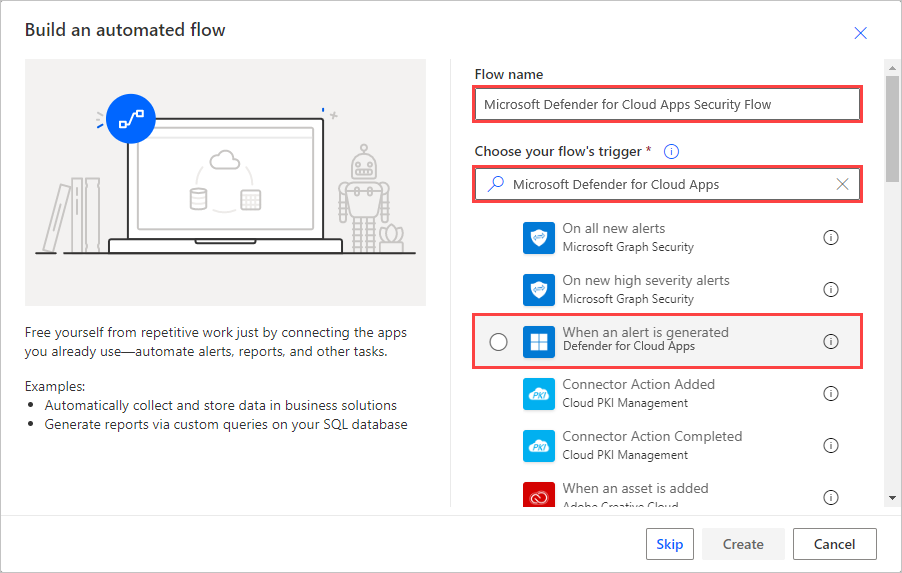
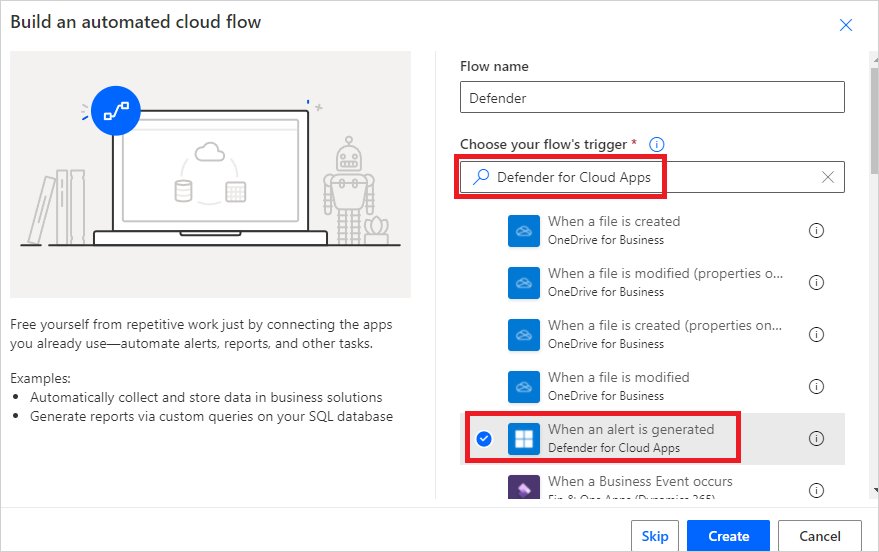
Rebrand Power Automate images

diff --git a/CloudAppSecurityDocs/tutorial-flow.md b/CloudAppSecurityDocs/tutorial-flow.md
@@ -56,7 +56,7 @@ If you don't have a Power Automate plan, [sign up for a free trial account](http
 
     ![Screenshot of the main Power Automate page, showing the selection of templates.](media/tutorial-flow-templates.png)
 
-1. Search for *Cloud App Security* and select **Run antivirus scan using Windows Defender upon a Defender for Cloud Apps alert**.
+1. Search for *Defender for Cloud Apps* and select **Run antivirus scan using Windows Defender on Defender for Cloud Apps alerts**.
 
     ![Screenshot of the templates Power Automate page, showing the search results.](media/tutorial-flow-templates-search.png)
 
@@ -103,7 +103,7 @@ If you don't have a Power Automate plan, [sign up for a free trial account](http
 
 Now every alert raised for this policy will initiate the flow to run the antivirus scan.
 
-You can use the steps in this tutorial to create a wide range of workflow-based actions to extend Defender for Cloud Apps remediation capabilities, including other Defender for Endpoint actions. To see a list of predefined Defender for Cloud Apps workflows, in Power Automate, [search for "Cloud App Security"](https://go.microsoft.com/fwlink/?linkid=2102574).
+You can use the steps in this tutorial to create a wide range of workflow-based actions to extend Defender for Cloud Apps remediation capabilities, including other Defender for Endpoint actions. To see a list of predefined Defender for Cloud Apps workflows, in Power Automate, [search for "Defender for Cloud Apps"](https://go.microsoft.com/fwlink/?linkid=2102574).
 
 ## See also
 

diff --git a/CloudAppSecurityDocs/flow-integration.md b/CloudAppSecurityDocs/flow-integration.md
@@ -28,7 +28,7 @@ The [Defender for Cloud Apps connector](/connectors/cloudappsecurity/) in Power 
 
     ![Power Automate create new flow.](media/flow-create-new.png)
 
-1. Provide a name for the flow, and in **Choose your flow's trigger**, type **Cloud App Security** and select **When an alert is generated**.
+1. Provide a name for the flow, and in **Choose your flow's trigger**, type *Defender for Cloud Apps* and select **When an alert is generated**.
 
     ![Power Automate when an alert is generated.](media/flow-when-alert.png)
 
@@ -44,7 +44,7 @@ The [Defender for Cloud Apps connector](/connectors/cloudappsecurity/) in Power 
 1. In the [Defender for Cloud Apps portal](https://portal.cloudappsecurity.com/), go to **Policies**. In the row of the policy whose alerts you want to forward to Power Automate, select the three dots and then select **Edit Policy**.
 1. Under **Alerts**, select **Send Alerts to Power Automate** and choose the name of the playbook you created earlier from the drop-down menu.
 
-    ![Enable Power Automate in Defender for Cloud Apps portal.](media/flow-mcas-config.png)
+    ![Enable Power Automate in Defender for Cloud Apps portal.](media/flow-alerts-config.png)
 
 1. Defender for Cloud Apps playbooks that you've authored or are granted access to can be seen by going to **Settings** -> **Security extensions**.
 
